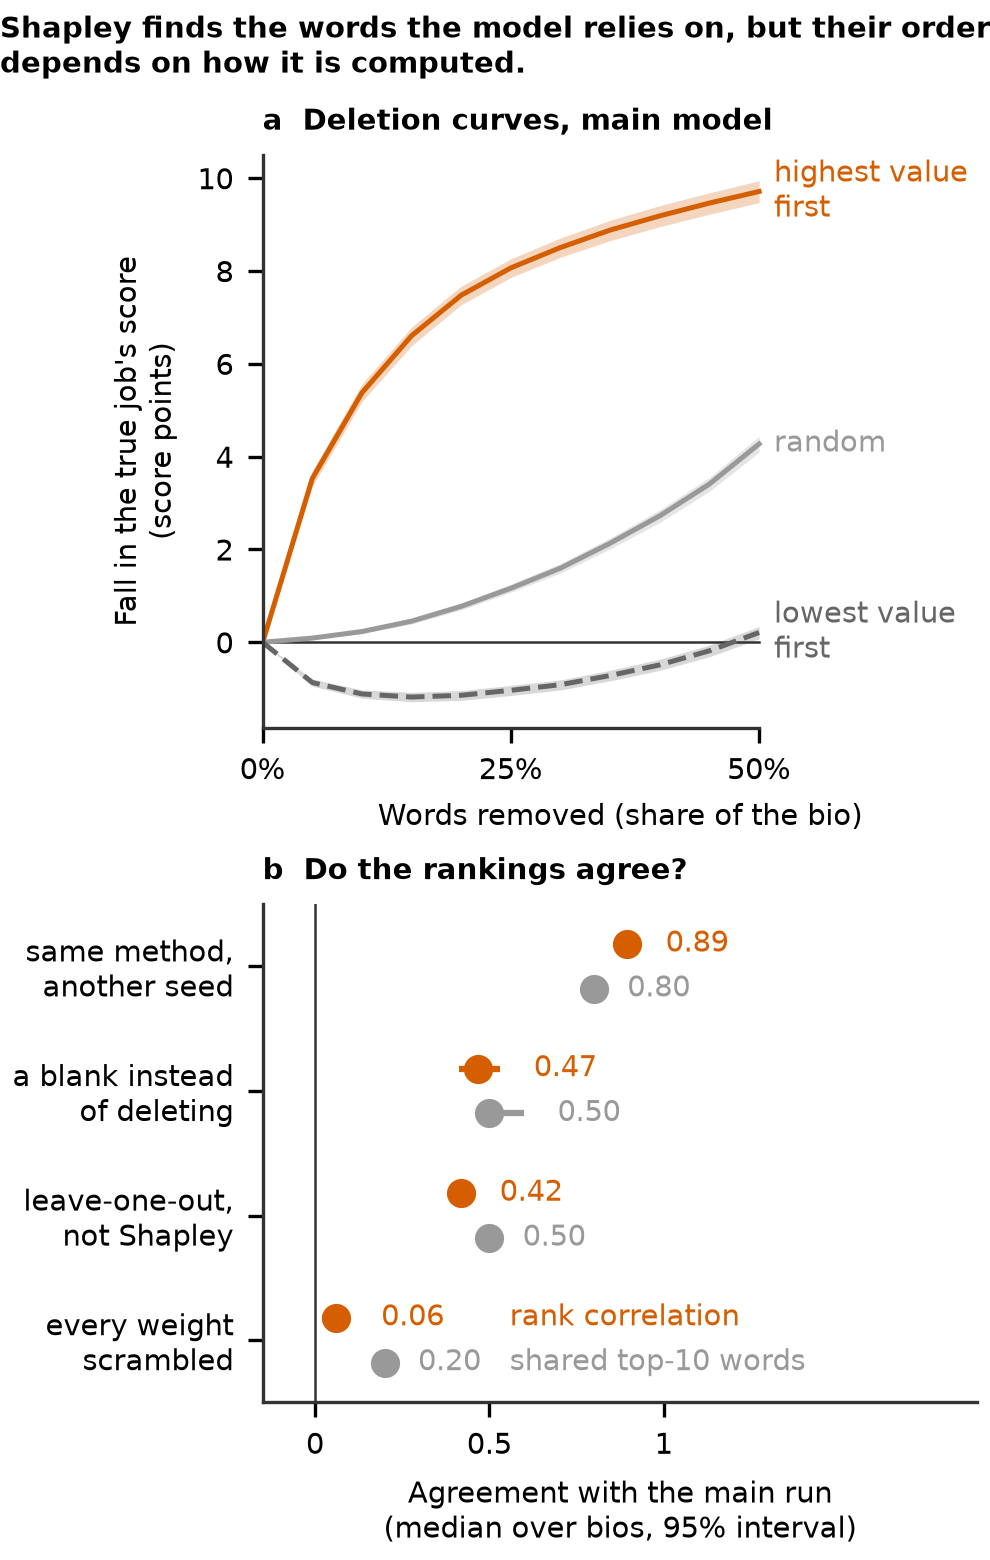
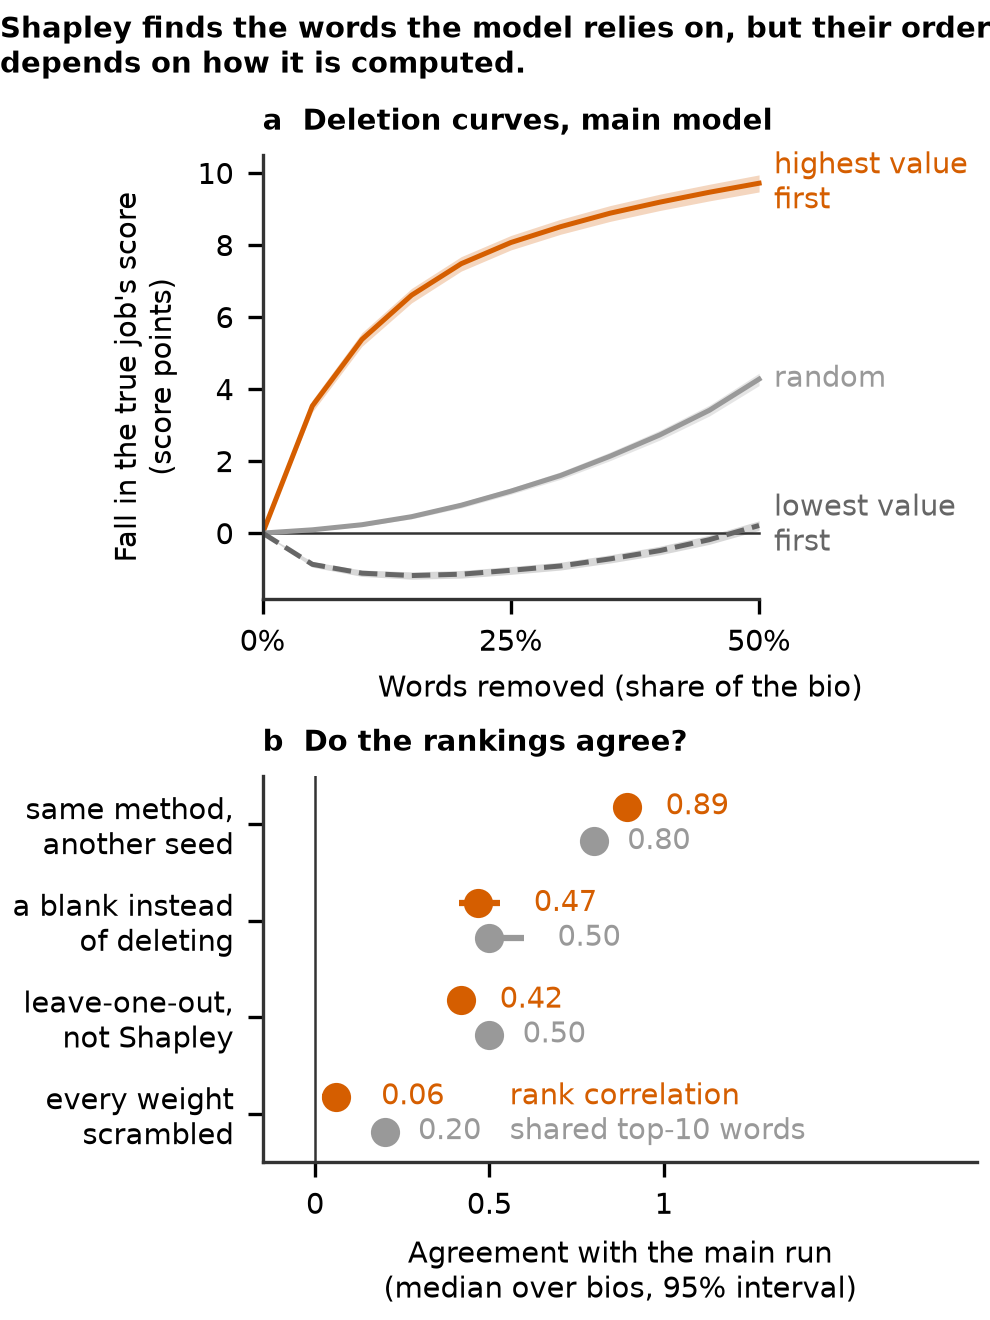
F5: shorter figure for report size

diff --git a/tests/test_figure_f5.py b/tests/test_figure_f5.py
@@ -273,7 +273,7 @@ def test_the_two_measures_are_named_next_to_the_data_and_zero_is_marked(figure):
     assert any(list(line.get_xdata()) == [0, 0] for line in bottom.lines)
 
 
-def test_the_figure_is_3_3_by_4_4_inches_so_it_fits_a_column_at_report_size(figure):
+def test_the_figure_is_3_3_by_4_4_inches_and_no_text_is_below_7_pt(figure):
     assert tuple(figure.get_size_inches()) == (3.3, 4.4)
     texts = [t for t in figure.findobj(matplotlib.text.Text) if t.get_text().strip()]
     assert min(t.get_fontsize() for t in texts) >= 7

diff --git a/scripts/figure_f5.py b/scripts/figure_f5.py
@@ -24,7 +24,7 @@ SCREENER = "deberta"
 FIGURE_NAME = "f5_explanation_checks"
 DARK = "#333333"
 LERF = "#666666"  # a mid grey: darker than random's NEUTRAL, with its own dashed line
-HEIGHT_INCHES = 5.2
+HEIGHT_INCHES = 4.4
 LAST_STEP = 0.5  # the deletion curves stop at half of the words
 LABEL_ROOM = 0.22  # room right of the last step for the curve labels, in fractions of the bio
 LABEL_GAP = 0.13  # least distance between curve labels, as a share of the y range
